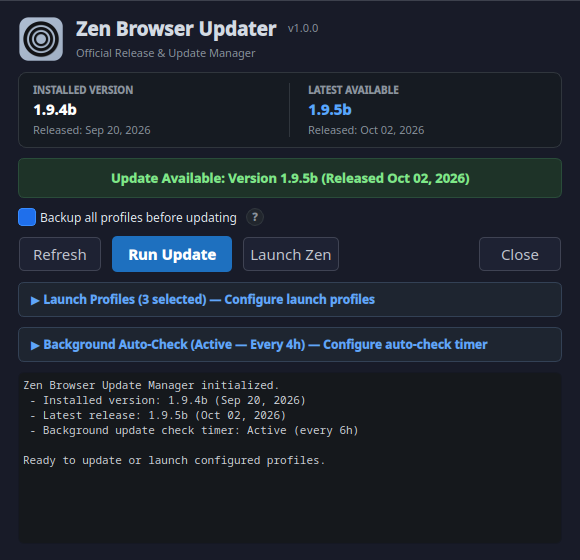
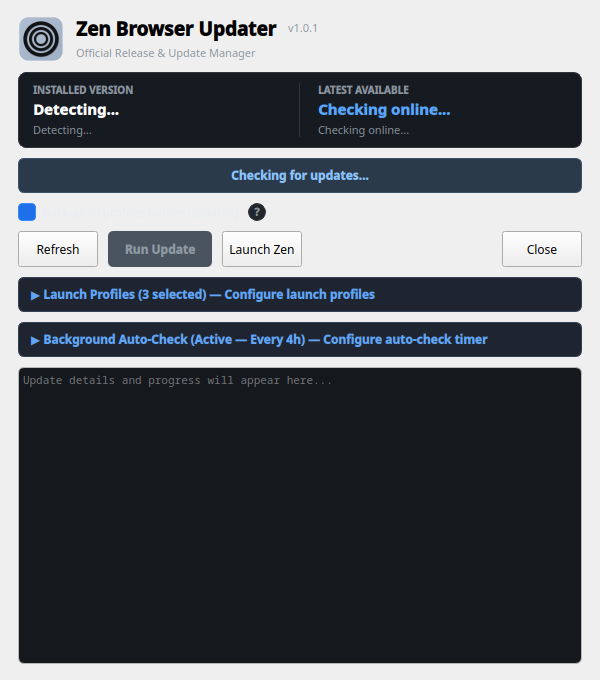
Optimize profile backup snapshot exclusions and bump version to v1.0.1

diff --git a/zen_updater_gui.py b/zen_updater_gui.py
@@ -25,7 +25,7 @@ from PyQt6.QtWidgets import (
     QMessageBox, QGridLayout, QCheckBox, QScrollArea, QComboBox
 )
 
-APP_VERSION = "v1.0.0"
+APP_VERSION = "v1.0.1"
 SCRIPT_DIR = os.path.dirname(os.path.abspath(__file__))
 
 

diff --git a/README.md b/README.md
@@ -24,7 +24,7 @@ Zen Browser on Linux is frequently distributed as an official portable tarball r
 
 - **Direct GitHub Releases Tracking**: Queries GitHub's official release endpoint directly to obtain authoritative version metadata without API rate limits.
 - **Side-by-Side Version Card**: Immediate visual comparison of the currently installed version against the latest available release, including release dates.
-- **Pre-Update Profile Safety Snapshot**: Automatically archives `~/.zen` using multi-threaded `zstd` compression prior to updating, while excluding volatile browser caches (`cache2`, `startupCache`). Automatically maintains a rolling 2-backup rotation in `~/.zen-backups/`.
+- **Pre-Update Profile Safety Snapshot**: Automatically archives `~/.zen` using multi-threaded `zstd` compression prior to updating, while intelligently excluding volatile browser caches (`cache2`, `startupCache`, remote settings, disposable site icon caches, and crash logs) to keep snapshots fast and lightweight (~300 MB). Automatically maintains a rolling 2-backup rotation in `~/.zen-backups/`.
 - **Multi-Profile Launching with Staggered Windows**:
   - Dynamically discovers all configured profiles from `~/.zen/profiles.ini`.
   - Integrates with dedicated desktop launchers (`.desktop` files) for custom isolated web apps.
